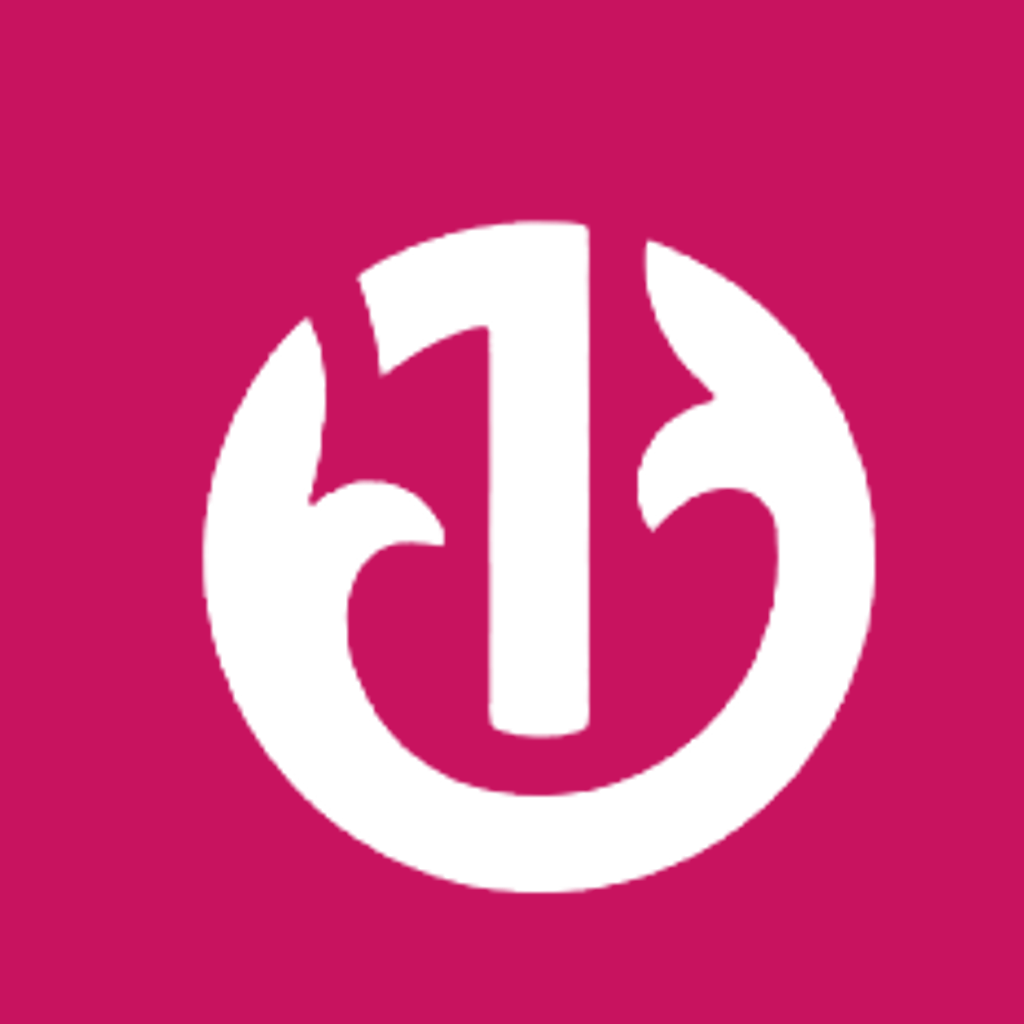
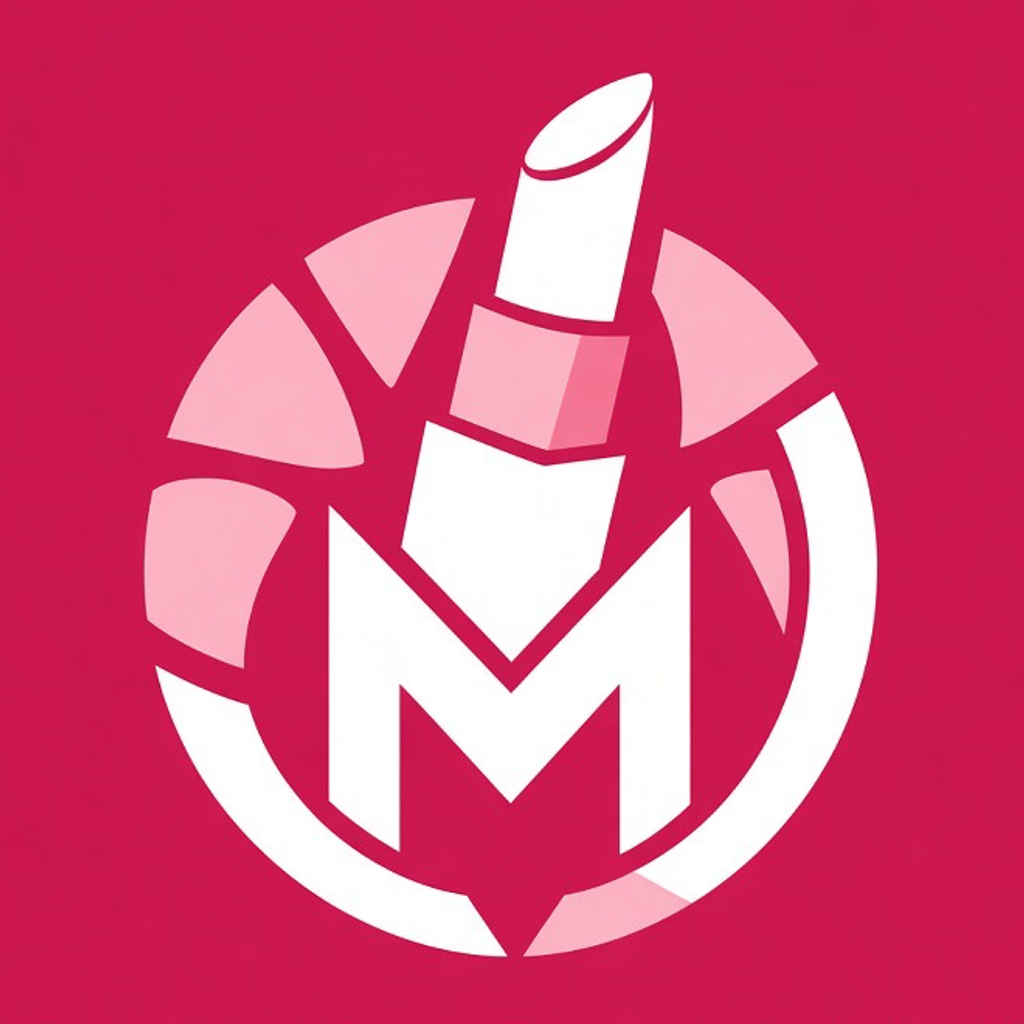
feat(brand): новый логотип — иконка (эмблема) и заставка (весь логотип)

diff --git a/src/components/AppSplashGate.tsx b/src/components/AppSplashGate.tsx
@@ -2,7 +2,6 @@
 
 import { useEffect, useState, type ReactNode } from "react";
 import Image from "next/image";
-import { useTranslations } from "next-intl";
 import { useSession } from "@/lib/session-context";
 import { SPLASH_COOKIE } from "@/lib/splash-cookie";
 
@@ -26,9 +25,7 @@ export function AppSplashGate({
   children: ReactNode;
   initialAlreadyShown: boolean;
 }) {
-  const t = useTranslations("intro");
-  const tMeta = useTranslations("meta");
-  const { session, loading } = useSession();
+  const { loading } = useSession();
   const [minTimeElapsed, setMinTimeElapsed] = useState(false);
   const [alreadyShown, setAlreadyShown] = useState(initialAlreadyShown);
 
@@ -52,28 +49,18 @@ export function AppSplashGate({
     <>
       <div
         aria-hidden={!showSplash}
-        className={`fixed inset-0 z-50 flex flex-col items-center justify-center bg-accent text-white px-6 transition-opacity duration-500 ${
+        className={`fixed inset-0 z-50 flex flex-col items-center justify-center bg-[#c9164d] px-6 transition-opacity duration-500 ${
           showSplash ? "opacity-100" : "opacity-0 pointer-events-none"
         }`}
       >
-        <div className="relative w-32 h-32 flex items-center justify-center mb-7">
-          <span className="intro-ring absolute inset-0 rounded-full border-2 border-white/60" aria-hidden />
-          <span
-            className="intro-ring absolute inset-0 rounded-full border-2 border-white/60"
-            style={{ animationDelay: "1.1s" }}
-            aria-hidden
-          />
-          <Image src="/icon-512.png" alt="" width={128} height={128} priority className="intro-logo relative rounded-full" />
-        </div>
-        <h1
-          className="intro-text font-display text-2xl sm:text-3xl text-center leading-tight"
-          style={{ animationDelay: "0.15s" }}
-        >
-          {session?.storeName || tMeta("title")}
-        </h1>
-        <p className="intro-text text-white/75 text-sm mt-2 text-center" style={{ animationDelay: "0.3s" }}>
-          {t("tagline")}
-        </p>
+        <Image
+          src="/brand/splash.webp"
+          alt=""
+          width={832}
+          height={1248}
+          priority
+          className="intro-logo h-auto max-h-[80dvh] w-auto max-w-[78vw] object-contain"
+        />
       </div>
       <div className={showSplash ? "invisible" : "visible"}>{children}</div>
     </>
